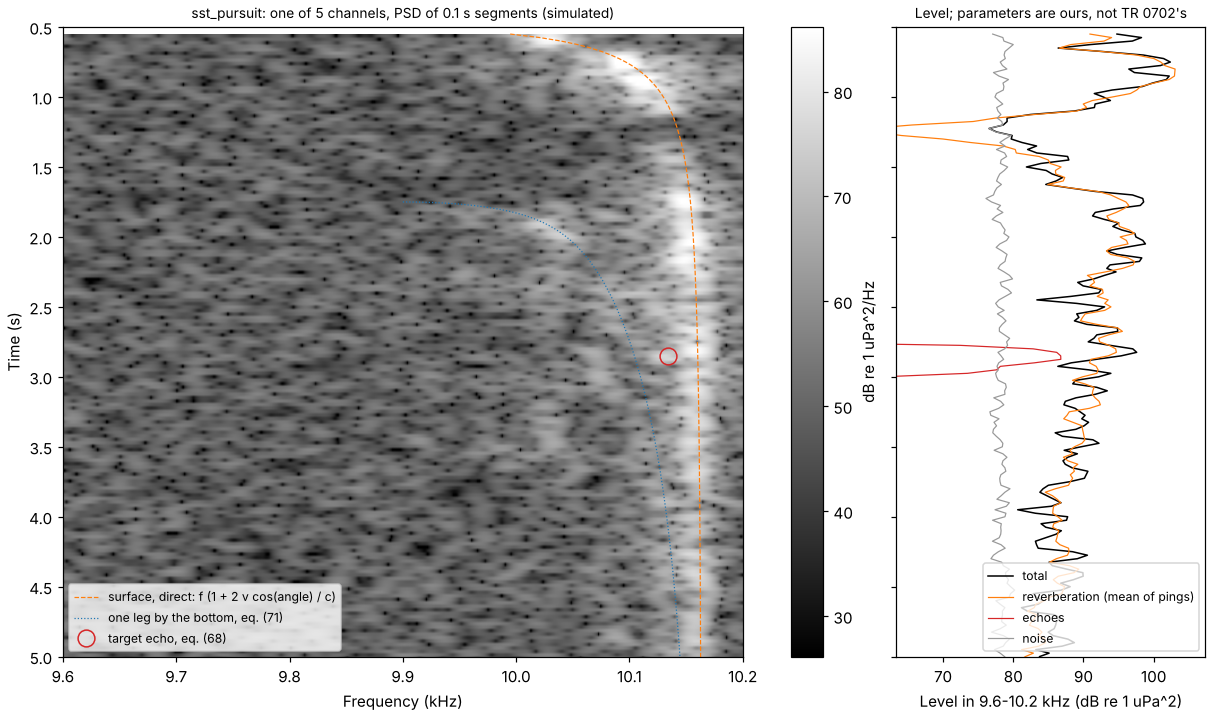
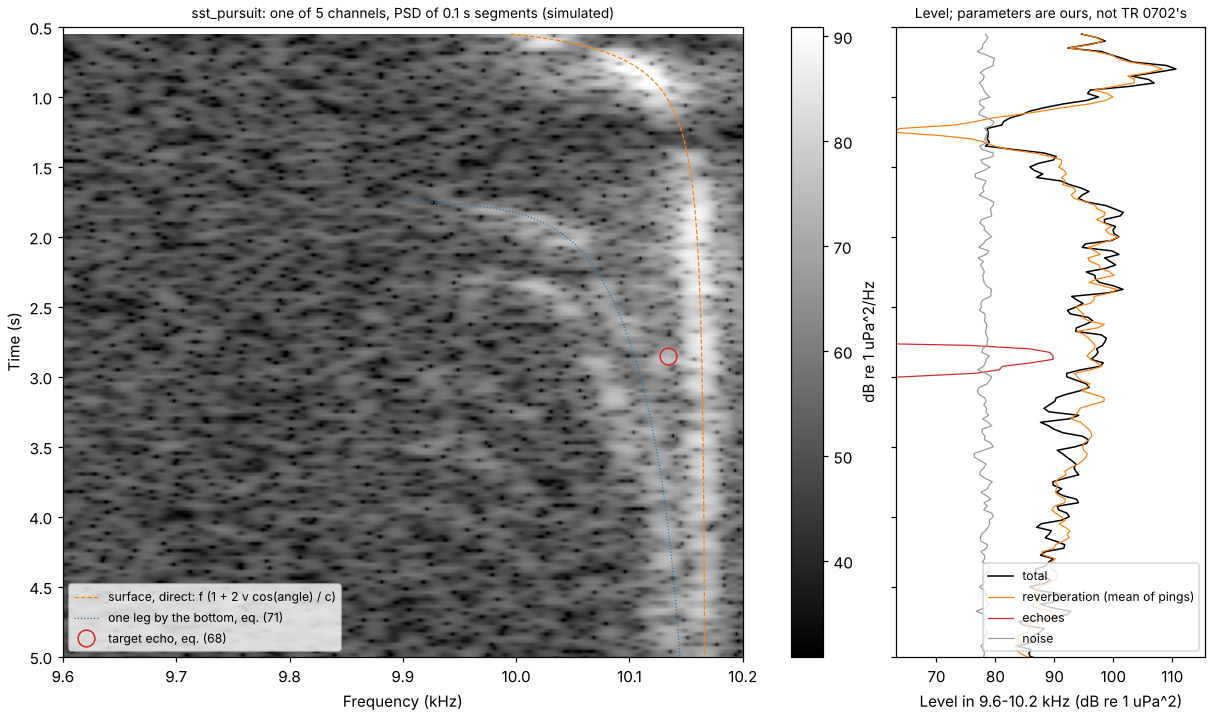
sst_validation regenerated; the shift since 5956b10 is deterministic, cause not bisected
Two runs on one tree agree in every number but the run time, so the moved
Pursuit and ASIAEX rows come from a code change between 5956b10 and now;
the time-spreading commit is ruled out. Quotes in SCENARIOS and RESULTS
updated, with the earlier values kept beside them.

Claude-Session: https://claude.ai/code/session_01QhYtHta4HR3WascrfVLbGv

diff --git a/docs/figures/sst_validation.md b/docs/figures/sst_validation.md
@@ -12,12 +12,12 @@ Emitted by `tools/sst_validation.py`. Two worked examples in TR 0702 are run wit
 | Sec. 3 | A streak starting at about 1.7 s that merges with the ridge: a path that reflects from the bottom | image-source provider under the reverberation (pairs of direct and bottom-reflected legs) | tests/python/test_sst_validation.py::test_pursuit_bottom_bounce_streak_starts_when_geometry_says | onset 1.750 s, closed form 2 D / c = 1.700 s (our depth); on the track of eq. (71) the return is 16.7 dB above the run without a bottom (-0.4 dB 40 Hz above it, where eq. (71) allows nothing) |
 | Sec. 3 / Sec. 11.2 | (implied) each eigenray pair has its own Doppler, eq. (71) | components keyed by (azimuth, receive elevation, bin of total Doppler): pairs with different shifts are not merged (was one Doppler per direction: a defect found here, fixed in the reverberation package) | tests/python/test_sst_validation.py::test_reverberation_gives_each_eigenray_pair_its_own_doppler, ::test_bottom_paths_change_nothing_before_they_can_arrive | Adding the bottom changes the record before any bottom path can arrive by at most +4.6 dB near 0.88 s, 10045 Hz; mean Doppler from dead ahead off by up to 2 Hz (1.4 Hz without a bottom) |
 | Sec. 3 | Target echo at about 2.8 s and 10.13 kHz, lower Doppler than the ridge (the target is running away) | `type: target` (HighlightTarget), exact two-way kinematics in the kernel | tests/python/test_sst_validation.py::test_pursuit_target_echo_is_the_simple_target_echo_model | arrival 2.7900 s (closed form 2.7889); frequency 10133.73 Hz (eq. 68: 10133.73); 30 Hz below the ridge; record vs eqs. (66)+(68): rms difference 0.29 %, level +0.009 dB |
-| Sec. 3 | An easy high-Doppler detection although the echo is well below the reverberation level (not visible on the level plot) | spectrogram of one channel, as in Fig. 2 | tests/python/test_sst_validation.py::test_pursuit_target_is_below_the_reverberation_but_separated_in_doppler | echo -6.4 dB re reverberation in the displayed band (level rises 0.9 dB); its spectrogram cell is 8.1 dB above the reverberation there |
-| Sec. 3 | The dominant feature is the reverberation, primarily from the surface | surface boundary (Chapman-Harris, extrapolated) is the only scattering boundary; Wenz noise | tests/python/test_sst_validation.py::test_pursuit_surface_reverberation_dominates | ridge PSD over noise PSD: median 27.1 dB; level in the band over noise: median 12.6 dB, above it in 95 % of segments (source level is our choice) |
+| Sec. 3 | An easy high-Doppler detection although the echo is well below the reverberation level (not visible on the level plot) | spectrogram of one channel, as in Fig. 2 | tests/python/test_sst_validation.py::test_pursuit_target_is_below_the_reverberation_but_separated_in_doppler | echo -6.4 dB re reverberation in the displayed band (level rises 0.9 dB); its spectrogram cell is 8.3 dB above the reverberation there |
+| Sec. 3 | The dominant feature is the reverberation, primarily from the surface | surface boundary (Chapman-Harris, extrapolated) is the only scattering boundary; Wenz noise | tests/python/test_sst_validation.py::test_pursuit_surface_reverberation_dominates | ridge PSD over noise PSD: median 30.1 dB; level in the band over noise: median 15.6 dB, above it in 96 % of segments (source level is our choice) |
 | Sec. 3 with Sec. 12 | (ours) does time spreading of the surface-bounce echo matter in this example? | `time_spread` on the echo run | tests/python/test_sst_validation.py::test_pursuit_target_echo_is_the_simple_target_echo_model | No: the direct echo changes by 0.0e+00; the echo with a surface-reflected leg is -5.5 dB re the direct one, arrives after it, and its level changes by -0.7 dB (it becomes a random tail). None of the features checked depends on it: left out of the scenario file |
 | Sec. 3 | Signal includes noise produced by the fleeing target | `sources:` with `signal: {type: noise \| tonals}` | tests/python/test_oneway_sources.py::test_same_record_as_echoes_and_reverberation_and_default_unchanged | The feature exists and is tested (level, spectrum, Doppler); the Pursuit scenario file does not include a noisy target (TR 0702 gives no level for it) |
 | Sec. 3 | Five channels; inter-channel correlations are in the signal | 5 hydrophones, each with its pattern | tests/python/test_sst_validation.py::test_pursuit_scenario_holds_what_tr0702_states | 5 channels generated; coherence across them is covered by tests/python/test_reverb_statistics.py::test_direction_spread_gives_the_coherence_length |
-| Sec. 3 | Runs in a few seconds | - | - | 40 s for one ping of the scenario as written; 229 s for all the runs behind these rows (4 shared cores, CPU) |
+| Sec. 3 | Runs in a few seconds | - | - | 15 s for one ping of the scenario as written; 83 s for all the runs behind these rows (4 shared cores, CPU) |
 | Sec. 4.1.2, eqs. (4)-(6) | Complex envelope with sqrt(2), so that envelope power = signal power | envelopes of unit peak, no sqrt(2) (`sim/waveform.py`); \|envelope\| is the tone's amplitude | by design; tests/python/test_sampled_waveform.py::test_record_carries_the_pulse_in_its_existing_fields_and_survives_the_file | Convention differs (documented, PHYSICS_NOTES Sec. 15); levels here are checked in uPa through the sonar equation |
 | Sec. 4.1.3, 4.2, eqs. (7)-(13) | Windowed frequency domain, cross power spectra, scattering functions as data types | - | not applicable | Not SST's data-flow objects: our reverberation is generated in time from powers per direction |
 | Sec. 4.3 (script, p. 20-21) | VarDelay example: two tones, delay 1.00 ... 2.0 s; tones lowered as the delay grows | `sim/waveform.py` variable-delay resampler | tests/python/test_sampled_waveform.py::test_vardelay_script_of_tr0702_lowers_each_tone_by_one_minus_delay_rate | tones at n f1 (1 - dT/dt) within 0.02 Hz; output = x(t - T(t)) within 5.1e-3 (M = 6, Hann) [feature report] |
@@ -29,7 +29,7 @@ Emitted by `tools/sst_validation.py`. Two worked examples in TR 0702 are run wit
 | Sec. 4.6.3-4.6.4, eqs. (29)-(30) | Harmonic families; modulated tones with numerically integrated phase | analytic CW / LFM / Gaussian pulses; sampled pulses | tests/python/test_sampled_waveform.py (LFM, HFM, stepped FM, codes) | Harmonic families (eq. 29) are a signal of a one-way source: tests/python/test_oneway_sources.py::test_tonal_level_per_line_with_absorption_and_harmonic_family |
 | Sec. 5.2, eqs. (32)-(33) | Delay across an array from the slowness vector, with a spherical-wavefront correction | not used: arrival time solved per hydrophone | - | Not checked (not used) |
 | Sec. 5.4, eqs. (36)-(37) | Image vector and delay of each eigenray | `ImageSourceProvider` | tests/python/test_sst_validation.py::test_image_equations_as_printed_match_the_provider, ::test_asiaex_arrival_times_and_levels_are_the_image_closed_forms | eq. (36) vs leg-by-leg unfolding: 0.0e+00 m; provider delay vs eq. (37): 0.0e+00 s (7 bounce sequences); ASIAEX arrivals in the record: max 0.19 us |
-| Sec. 5.4, eq. (38) | Loss = spreading x absorption x product of reflection coefficients | eigenray amplitude, absorption along c x delay | tests/python/test_sst_validation.py::test_asiaex_arrival_times_and_levels_are_the_image_closed_forms, ::test_echo_level_is_the_sonar_equation | five ASIAEX arrivals: max 0.003 dB; six groups of pairs after pulse compression: max 0.005 dB, 0.13 us |
+| Sec. 5.4, eq. (38) | Loss = spreading x absorption x product of reflection coefficients | eigenray amplitude, absorption along c x delay | tests/python/test_sst_validation.py::test_asiaex_arrival_times_and_levels_are_the_image_closed_forms, ::test_echo_level_is_the_sonar_equation | five ASIAEX arrivals: max 0.003 dB; six groups of pairs after pulse compression: max 0.004 dB, 0.20 us |
 | Sec. 5.4, eqs. (39)-(40) | Where along the path each bounce happens | `TimeSpreadProvider._bounce_fractions` | tests/python/test_sst_validation.py::test_image_equations_as_printed_match_the_provider | max difference 0.0e+00 |
 | Sec. 5.4, eq. (41) | Slowness vectors at both ends (vertical sign reversed for an odd number of bounces) | eigenray `launch`, `arrival` | tests/python/test_sst_validation.py::test_image_equations_as_printed_match_the_provider | max difference 1.1e-16 |
 | Sec. 5.5-5.7 | CASS / GSM eigenrays, interpolation, ray identity heuristics | Bellhop provider (`sim/bellhop.py`) | cannot be checked against TR 0702 | No formulas in TR 0702; ours is tested against Bellhop itself (tests/python/test_propagation.py) |
@@ -42,7 +42,7 @@ Emitted by `tools/sst_validation.py`. Two worked examples in TR 0702 are run wit
 | Sec. 7.2, Table 7 | Beam pattern classes | one separable sinc pattern per element and for the projector | cannot be checked | No pattern is specified numerically in TR 0702; ours appears in the Pursuit hook (sidelobes) only |
 | Sec. 8.1, eqs. (47)-(52) | One-way source-to-receiver signal (`DirectSignal`) | - | tests/python/test_sst_validation.py::test_asiaex_arrival_times_and_levels_are_the_image_closed_forms | `sources:` (sim/sources.py): a radiating source heard one way; sst_asiaex.yaml uses it for the projector |
 | Sec. 8.3, eq. (63) | Doppler factor of a path from the velocities and slowness vectors | exact arrival-time solve (echoes); first order (reverberation) | tests/python/test_reverb_bistatic.py::test_doppler_shift_is_the_closed_form_factor_to_first_order; tests/python/test_sst_validation.py::test_pursuit_reverberation_hook_follows_the_closed_form | hook ridge vs first-order closed form: median -0.8 Hz over 178 segments |
-| Sec. 9.3, eqs. (66), (68), (70) | Echo = sum over eigenray pairs of delayed, scaled, time-dilated copies; Doppler of a moving highlight | two-way pairing + synthesis kernel | tests/python/test_sst_validation.py::test_pursuit_target_echo_is_the_simple_target_echo_model, ::test_doppler_bank_finds_a_moving_highlight_through_a_sampled_pulse | Pursuit echo vs eq. (66): 0.29 % rms; sampled pulse + Doppler bank: range rate -6.00 m/s (true -6.0), peak / sonar equation 1.003 |
+| Sec. 9.3, eqs. (66), (68), (70) | Echo = sum over eigenray pairs of delayed, scaled, time-dilated copies; Doppler of a moving highlight | two-way pairing + synthesis kernel | tests/python/test_sst_validation.py::test_pursuit_target_echo_is_the_simple_target_echo_model, ::test_doppler_bank_finds_a_moving_highlight_through_a_sampled_pulse | Pursuit echo vs eq. (66): 0.29 % rms; sampled pulse + Doppler bank: range rate -6.00 m/s (true -6.0), peak / sonar equation 1.011 |
 | Sec. 9.2 | PointTarget, HighlightTarget (delay, response, groups), ExternalTarget (aspect per ping) | `sim/targets.py` | tests/python/test_scene_targets.py | Covered by the feature's tests; group numbers not needed (one eigenray set per highlight) |
 | Sec. 10.3, eq. (76); Sec. 10.5, eqs. (77)-(80) | Scatterers delta-correlated; a cell's amplitude is Gaussian with variance = cell size x strength | point scatterers of `model: fluid_sediment` | tests/python/test_sst_validation.py::test_point_scatterers_and_scattering_function_agree_for_medium_sand | scatterer field vs integral: mean +0.04 dB; vs scattering-function reverberation: mean -0.23 dB (-1.15 to +0.33) |
 | Sec. 10.6, eqs. (89), (96), (103) | Gaussian spread in time / Doppler / direction gives coherence in frequency / time / space | reverberation generator | tests/python/test_reverb_statistics.py::test_time_spread_gives_the_coherence_bandwidth, ::test_doppler_spread_gives_the_coherence_time, ::test_direction_spread_gives_the_coherence_length | 7.971 vs 7.958 Hz; 40.06 vs 39.79 ms; 0.2973 vs 0.2984 m [feature report] |
@@ -58,11 +58,11 @@ Emitted by `tools/sst_validation.py`. Two worked examples in TR 0702 are run wit
 | Sec. 12.4 | Coherent / incoherent split; stochastic FIR filter with Gaussian taps; AR(1) evolution | `sim/timespread.py` | tests/python/test_timespread.py | Structure as stated; the three formulas are in TR 9407 (not available), ours are substitutes |
 | Sec. 12.4 | Near-specular reverberation is removed when time spreading is on | - | cannot be checked | Feature we lack: reverberation takes the flat-boundary paths and is not reduced. No double counting with Lambert / Chapman-Harris (no specular lobe); there could be with a Kirchhoff bottom (not measured) |
 | Sec. 12.4, rmsHeight | Mostly incoherent if rmsHeight > wavelength / sin(grazing), mostly coherent if smaller | coherent intensity exp(-(4 pi h sin(g) / wavelength)^2) | tests/python/test_timespread.py::test_coherent_part_is_the_rayleigh_parameter_factor | consistent at both ends; ours is half coherent at h = 0.066 wavelength / sin(g). ASIAEX: surface 0.77, bottom 0.97 coherent |
-| Sec. 12.4, meanSquareSlope | Spreading time ~ mss x half the one-way time (mid-path bounce); mss x twice the shorter leg (near one end) | decay time 2 mss t1 t2 / (t1 + t2) | tests/python/test_sst_validation.py::test_asiaex_tails_decay_at_the_rule_of_thumb | fitted to the mean intensity after the pulse: surface 2.94 ms (rule 2.91), bottom 7.69 ms (rule 7.50; mss 0.045 as printed) |
+| Sec. 12.4, meanSquareSlope | Spreading time ~ mss x half the one-way time (mid-path bounce); mss x twice the shorter leg (near one end) | decay time 2 mss t1 t2 / (t1 + t2) | tests/python/test_sst_validation.py::test_asiaex_tails_decay_at_the_rule_of_thumb | fitted to the mean intensity after the pulse: surface 2.77 ms (rule 2.91), bottom 7.69 ms (rule 7.50; mss 0.045 as printed) |
 | Sec. 12.4, rmsVerticalSpeed (p. 101) | Doppler spread = f x rms vertical speed / (c x sin(grazing)) | 2 f v sin(g) / c | see readings, item 23 | Reading differs from the print (sin g, not 1 / sin g) |
-| Sec. 12.5, Figs. 4-5 | With time spreading: tails and ping-to-ping variation; direct path unchanged | `time_spread` as in the scenario | tests/python/test_sst_validation.py::test_asiaex_with_time_spreading_bounce_paths_get_tails_and_vary | std of level across 20 pings: direct 0.00 dB, surface 1.88 dB, bottom 0.97 dB, surface-bottom 1.41 dB, bottom-surface 3.34 dB; 0.3-0.7 ms after the pulse: surface -6 dB, bottom -15 dB |
+| Sec. 12.5, Figs. 4-5 | With time spreading: tails and ping-to-ping variation; direct path unchanged | `time_spread` as in the scenario | tests/python/test_sst_validation.py::test_asiaex_with_time_spreading_bounce_paths_get_tails_and_vary | std of level across 20 pings: direct 0.00 dB, surface 2.85 dB, bottom 1.30 dB, surface-bottom 1.78 dB, bottom-surface 2.63 dB; 0.3-0.7 ms after the pulse: surface -6 dB, bottom -15 dB |
 | Sec. 12.6 | Wind 3 m/s fits the tail, 4 m/s the variability (McDanielSurface) | Pierson-Moskowitz height, Cox-Munk slope | cannot be checked | Needs the McDaniel laws and the data of Dahl (2002); only figures in TR 0702 |
-| Sec. 12.6 | Multiple-bounce peaks: intensity too high immediately after the pulse and too low later | `multi_bounce: sum` against `convolve` (default) | tests/python/test_sst_validation.py::test_asiaex_two_bounce_tail_sum_against_convolve | ASIAEX parameters (bottom 0.93 coherent): `sum` is -2.3 dB right after the pulse and +3.7 dB later re `convolve` (tail centroid 3.1 against 2.1 ms) - the OPPOSITE sign; with two fully rough bounces of equal decay: +1.6 dB in the first half of the pulse, -0.8 dB 2-5 ms after it - the defect as TR 0702 describes it |
+| Sec. 12.6 | Multiple-bounce peaks: intensity too high immediately after the pulse and too low later | `multi_bounce: sum` against `convolve` (default) | tests/python/test_sst_validation.py::test_asiaex_two_bounce_tail_sum_against_convolve | ASIAEX parameters (bottom 0.93 coherent): `sum` is -2.8 dB right after the pulse and +3.0 dB later re `convolve` (tail centroid 3.1 against 2.1 ms) - the OPPOSITE sign; with two fully rough bounces of equal decay: +1.6 dB in the first half of the pulse, -0.9 dB 2-5 ms after it - the defect as TR 0702 describes it |
 | Sec. 12.2-12.5, Figs. 3-4 panels 3-5 | Scattering function at 1.5 and 0.1 ms updates; forward-scatter reverberation; total | - | cannot be checked | No near-specular surface scattering model here (TR 0702's is McDaniel's) and no removal of it; only figures, no numbers |
 | Sec. 12.2, Fig. 3 panel 1 | Measured ASIAEX data | - | cannot be checked | Data of Dahl (2002) not used; no numbers in TR 0702 |
 

diff --git a/docs/STATUS.md b/docs/STATUS.md
@@ -242,9 +242,12 @@ Grouped; within a group the most consequential first.
     `surface_image_validation.json`, `docs/scenarios/transmission_loss.json`,
     `docs/figures/rough_surface_bands.json`, `docs/figures/ssp_range_study.*`, and the
     numbers `SCENARIOS.md` quotes for the 44 scenarios whose sound speed moved.
-    `docs/figures/sst_validation.*` was already stale before them: regenerating it moves
-    Pursuit and ASIAEX rows none of these changes touch (ridge over noise 27.1 to
-    30.1 dB), which is not explained. `docs/figures/fjord_rehearsal.*` is stale again
+    `docs/figures/sst_validation.*` is regenerated (commit `e10b17f`): the Pursuit and
+    ASIAEX rows moved against the run of `5956b10` (ridge over noise 27.1 to 30.1 dB,
+    ASIAEX ping-to-ping variation 1.88 to 2.85 dB at the surface). The tool is
+    deterministic (two runs on one tree agree in every number but its run time), so the
+    cause is a code change in the 40 or so commits between; the time-spreading commit
+    `f2bf420` is ruled out (opt-in, bit-identical without its keys). Not bisected. `docs/figures/fjord_rehearsal.*` is stale again
     since D-142: its open-water rows run the shallow trials, which now keep their whole
     bounce series. `docs/figures/gallery.json` and its figures (item 45), `DESIGN.md` and
     `docs/design/derived.json` are current (the last two regenerate byte-identical after

diff --git a/docs/SCENARIOS.md b/docs/SCENARIOS.md
@@ -721,8 +721,8 @@ figures were 1.2 Hz and 1.725 s (`RESULTS.md`).
 
 ASIAEX: arrivals at 0, 3.97, 9.20, 20.68 and 30.57 ms within 0.20 µs of the image
 equations; with time spreading the bounce arrivals grow tails (surface −6 dB, bottom
-−15 dB re peak after the pulse) and vary from ping to ping (surface 1.88 dB, bottom
-0.97 dB standard deviation over 20 pings).
+−15 dB re peak after the pulse) and vary from ping to ping (surface 2.85 dB, bottom
+1.30 dB standard deviation over 20 pings; 1.88 and 0.97 dB in the run of `5956b10`).
 
 Made by: `PYTHONPATH=python python3 tools/sst_validation.py --out docs/figures/sst_validation.md --json docs/figures/sst_validation.json --figures docs/figures`
 (about 2 minutes on the CPU).
